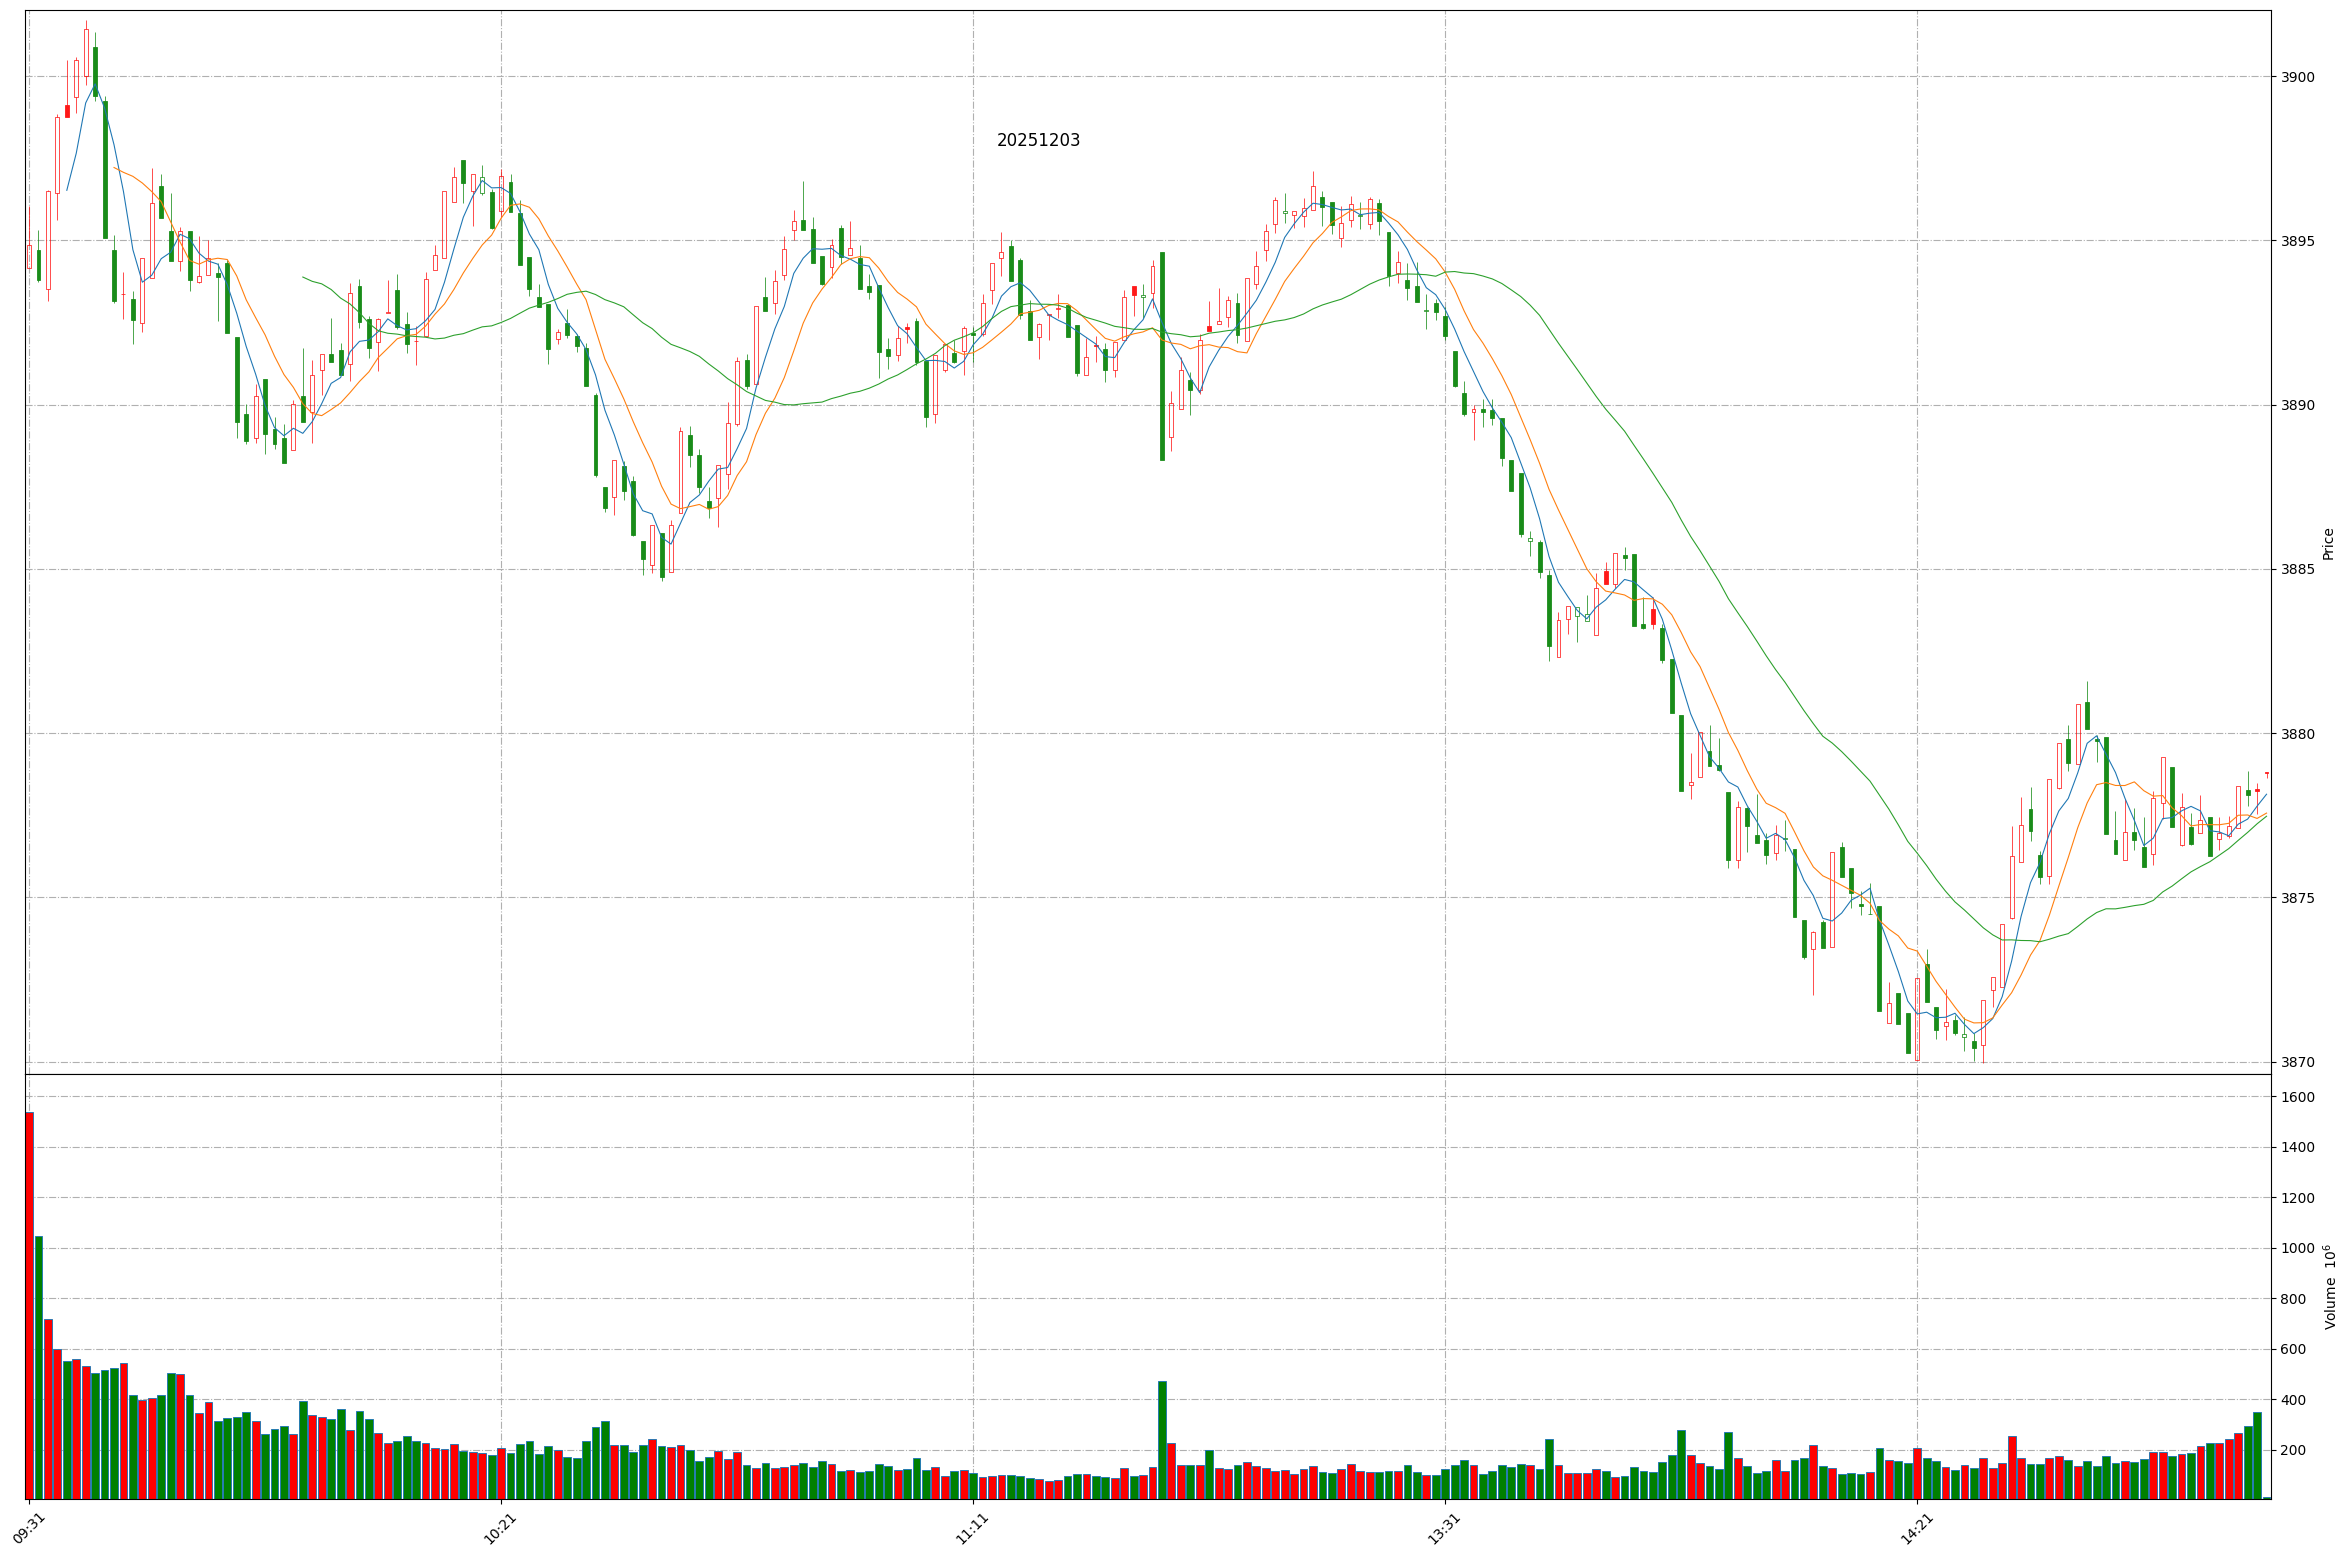
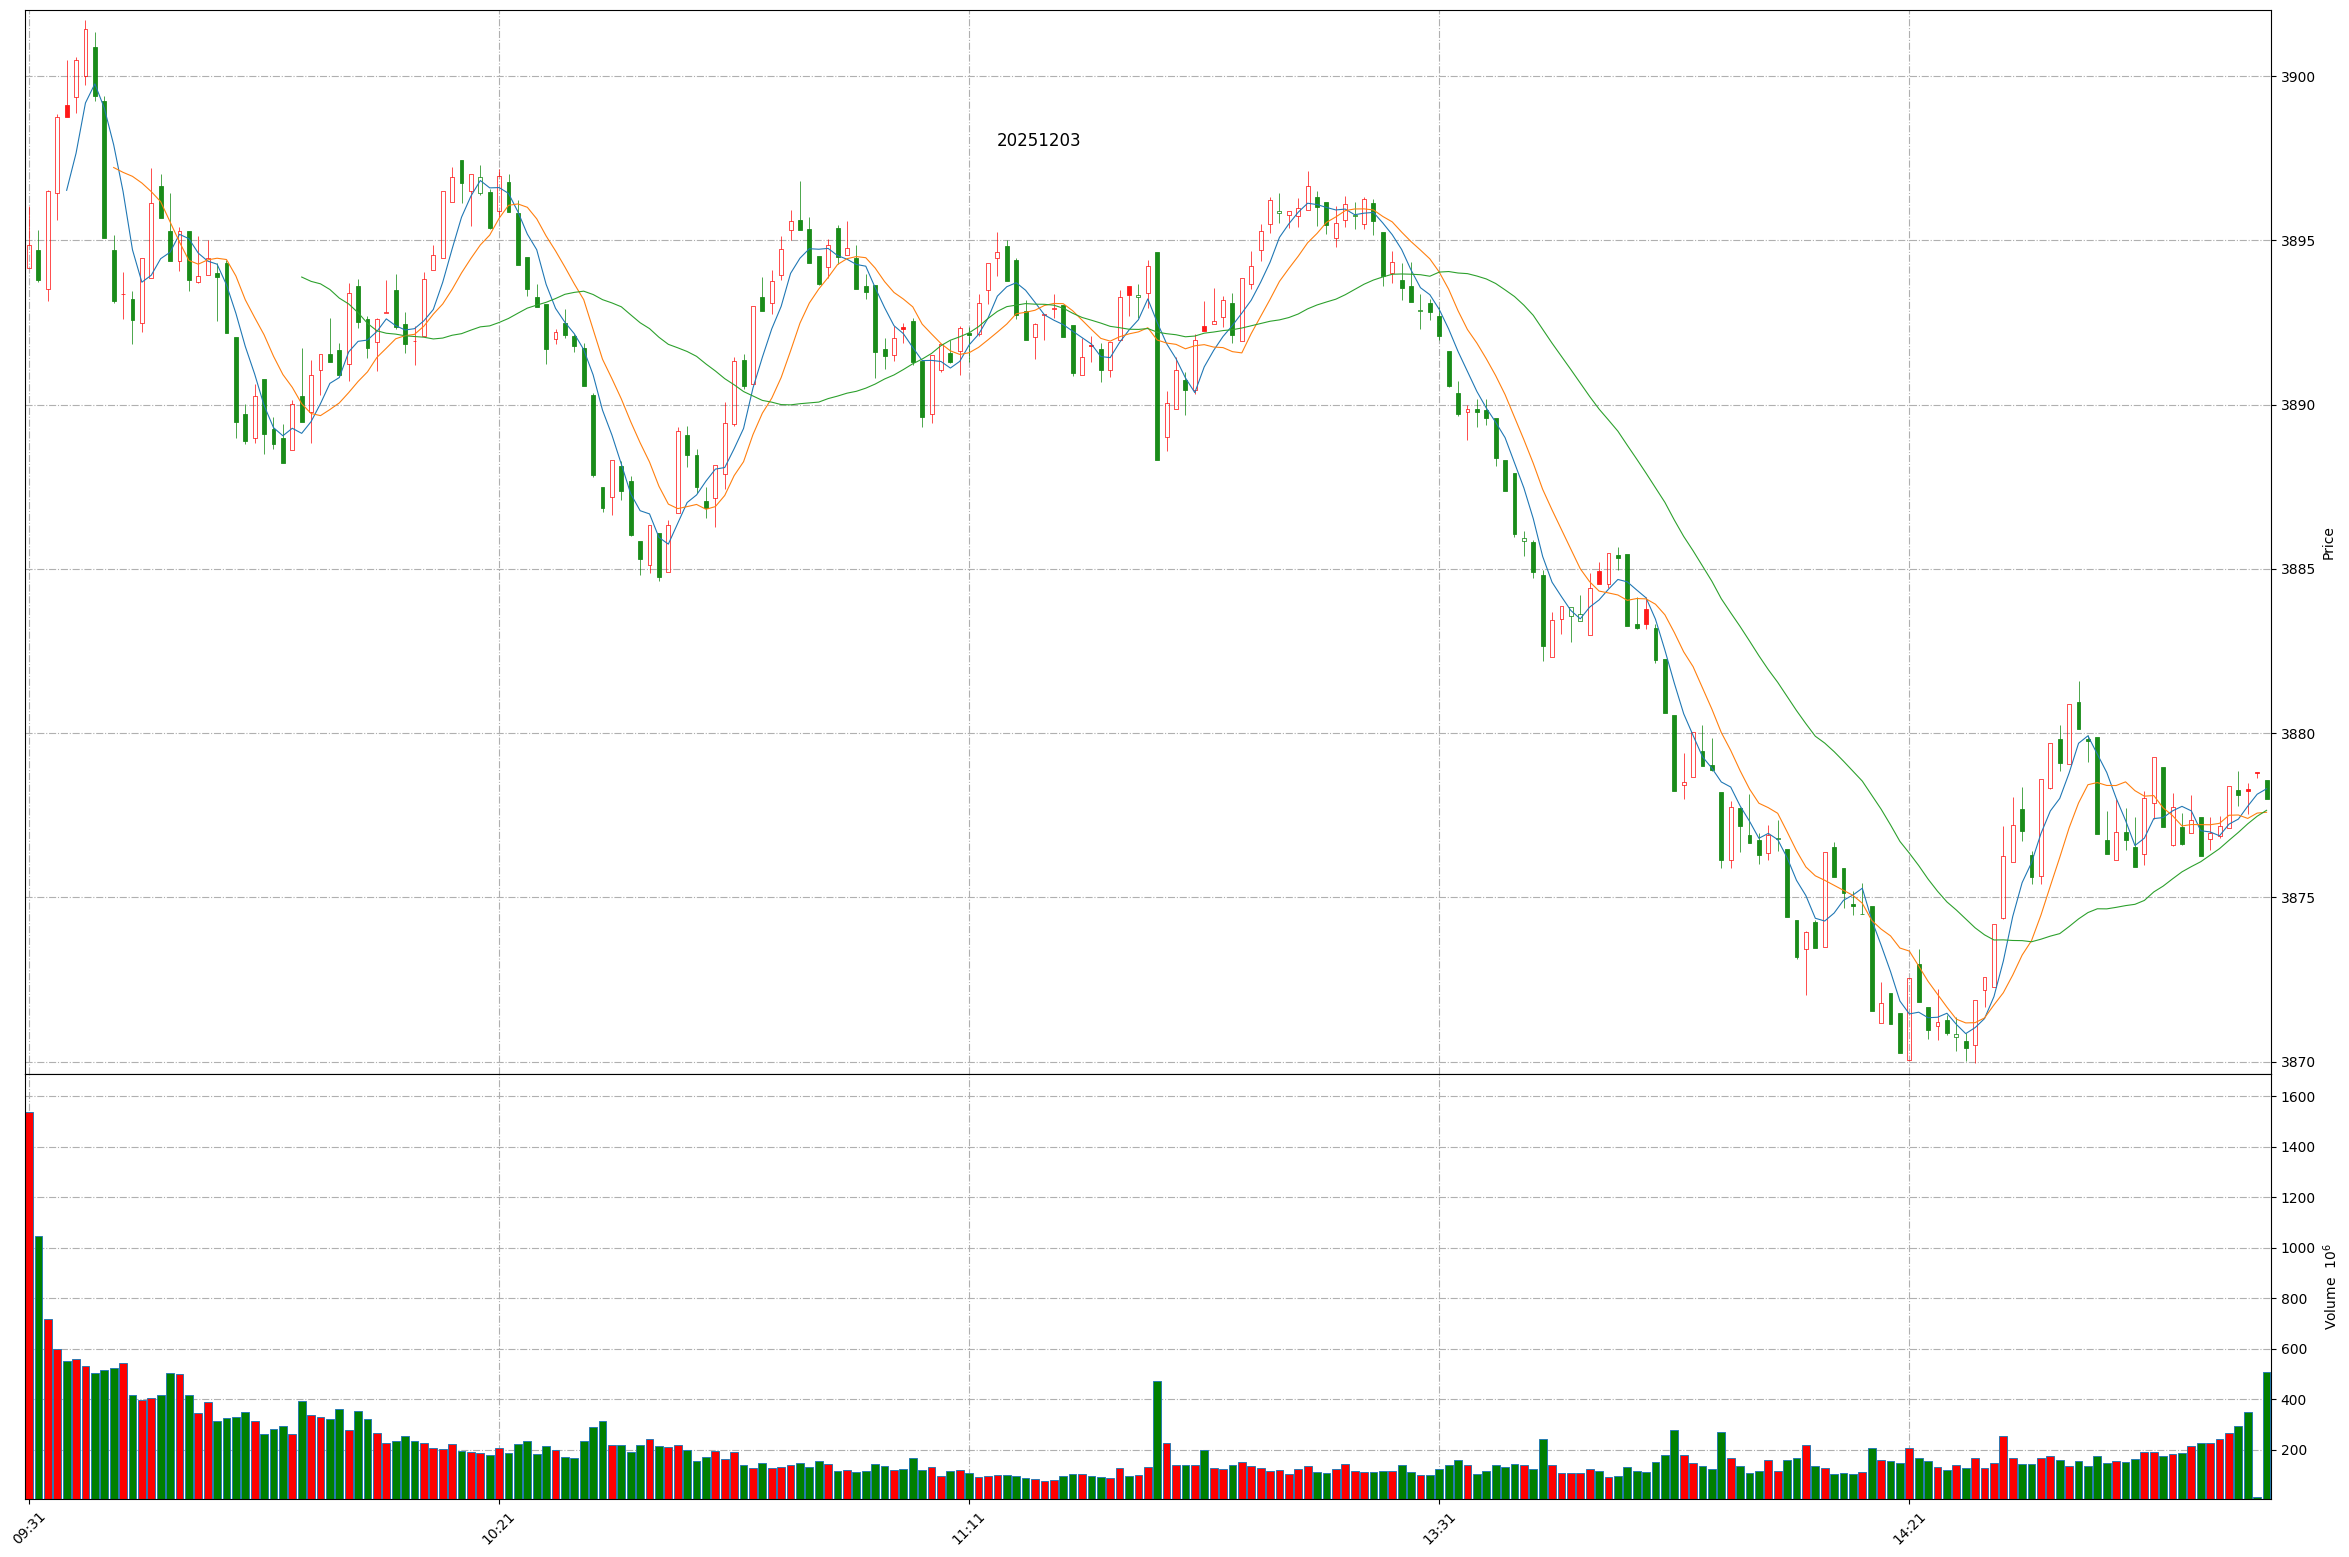
Github action update at 2025-12-03 15:17:09.

diff --git a/README.md b/README.md
@@ -1,11 +1,11 @@
 
 # Daily-A-share-market-quotes 每日 A 股指数（5min 更新）- 20251203
 
-### 上证指数 20251203 14:59
+### 上证指数 20251203 15:17
 ![](./fig/2025/12/20251203-sh000001.png)
 
-### 深证成指 20251203 14:59
+### 深证成指 20251203 15:17
 ![](./fig/2025/12/20251203-sz399001.png)
 
-### 北证50 20251203 14:59
+### 北证50 20251203 15:17
 ![](./fig/2025/12/20251203-bj899050.png)
